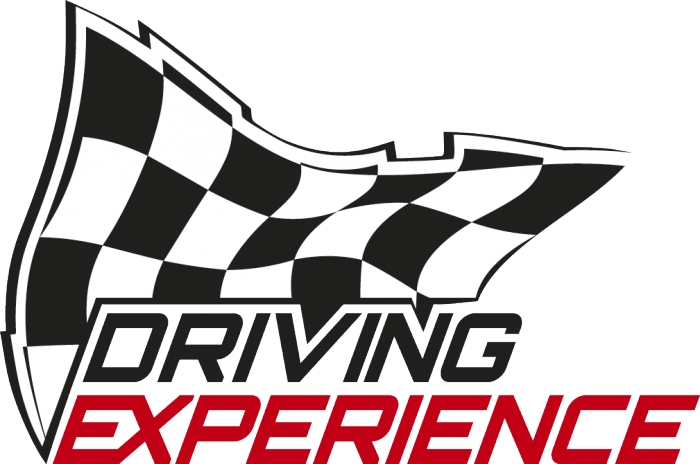
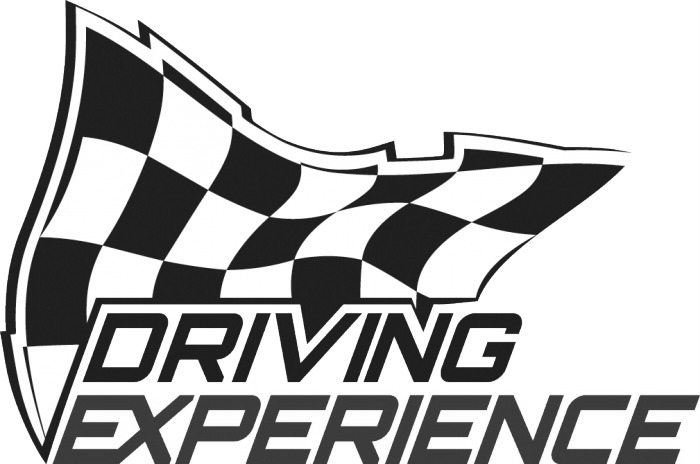
header perfected

Changed region(s): [[0.06, 0.8448, 1.0, 1.0]]

diff --git a/src/App.js b/src/App.js
@@ -11,14 +11,13 @@ import Forum from "./Forum";
 import Body from "./Body";
 import Quiz from "./Quiz";
 import patronate from "./img/drivingexperience.jpg";
-import { library } from '@fortawesome/fontawesome-svg-core';
-import { FontAwesomeIcon } from '@fortawesome/react-fontawesome';
-import { faIgloo, faThumbsUp, faShareAlt } from '@fortawesome/free-solid-svg-icons';
+import {library} from '@fortawesome/fontawesome-svg-core';
+import {FontAwesomeIcon} from '@fortawesome/react-fontawesome';
+import {faThumbsUp, faShareAlt} from '@fortawesome/free-solid-svg-icons';
 
-library.add(faIgloo, faThumbsUp, faShareAlt);
+library.add(faThumbsUp, faShareAlt);
 
 class Header extends Component {
-
 
 
     render() {
@@ -26,8 +25,8 @@ class Header extends Component {
             <Router>
                 <div>
                     <div className="headerBlack">
-                        <span className="roundCircle">DRV</span>
-                        <div className="patron">Patronat: <img className="patronate" src={patronate}/></div>
+                        <span className="logo">DRV</span>
+                        <img className="patronate" src={patronate} alt="patronate"/>
                         <div className="userHeader">
                             <span>user</span>
                             <div><span>points</span> | <a href="#">wyloguj</a></div>
@@ -35,13 +34,13 @@ class Header extends Component {
                     </div>
                     <div className="headerChoice">
                         <Link to="/">
-                            <button className="tab">PORADY</button>
+                            <button className="tab"><span className="tabText">PORADY</span></button>
                         </Link>
                         <Link to="/forum">
                             <button className="tab">FORUM</button>
                         </Link>
                         <Link to="/quiz">
-                        <button className="tab">QUIZ</button>
+                            <button className="tab">QUIZ</button>
                         </Link>
                     </div>
                 </div>

diff --git a/src/App.scss b/src/App.scss
@@ -2,6 +2,7 @@
   box-sizing: border-box;
   padding: 0;
   margin: 0;
+  font-family: 'Rajdhani', sans-serif;
 }
 
 .mainComponent {
@@ -11,74 +12,89 @@
 
 .headerBlack {
   height: 55px;
-  background-color: black;
+  background-color: white;
   display: flex;
   justify-content: space-between;
 }
 
 .headerChoice {
   height: 30px;
-  background-color: darkgrey;
-}
-
-.roundCircle {
-  height: 30px;
-  width: 30px;
-  border-radius: 50%;
-  background-color: darkgrey;
-  position: relative;
-  left: 2vw;
-  top: 0.75vh;
-  font-size: 0.7rem;
-  display: flex;
-  align-items: center;
-}
-
-.patron {
-  height: 60%;
-  width: 30%;
   background-color: white;
-  align-self: center;
-  justify-self: center;
-  font-size: 0.6rem;
 }
 
 .patronate {
-  width: 60%;
-  height: 95%;
+  width: 20%;
+  height: 65%;
+  align-self: center;
+  justify-self: center;
+  position: relative;
+  left: 6%;
 }
 
 .userHeader {
   display: flex;
   flex-direction: column;
-  color: white;
+  justify-content: center;
+  color: black;
+  position: relative;
+  right: 2.5%;
+  font-size: 0.95rem;
+}
+
+.userHeader span:first-child {
+  align-self: center;
+}
+
+.userHeader a {
+  color: black;
+}
+
+.logo {
+  font-family: 'Righteous', cursive;
+  font-size: 1.8rem;
+  position: relative;
+  left: 4%;
+  align-self: center;
 }
 
 .tab {
   float: left;
   width: 33.3%;
-  border: 1px solid black;
+  border-top: 0.5px solid black;
+  border-bottom: 0.5px solid black;
+  border-left: none;
+  border-right: none;
   height: 100%;
   display: flex;
   align-items: center;
   justify-content: center;
+  font-weight: 600;
+  background-color: white;
 }
+
+
 
 .weekly {
   width: 100%;
+  height: 30px;
   display: flex;
   padding-top: 10px;
+  justify-content: space-around;
 }
 
 .weekly span:first-child {
   position: relative;
-  left: 37%;
+  font-weight: 600;
+  left: 20%;
+  bottom: 35%;
+  font-size: 1.3rem;
 }
 
 .weekly span:last-child {
   position: relative;
-  left: 60%;
- }
+  right: -9%;
+  bottom: 15%;
+}
 
 .weeklyBody {
   background-color: darkgrey;

diff --git a/src/Body.js b/src/Body.js
@@ -7,12 +7,17 @@ import moviePoster from "./img/carcrash.jpeg";
 import { FontAwesomeIcon } from '@fortawesome/react-fontawesome';
 
 class Body extends Component {
+
     render() {
+
+        const actualDate = new Date();
+
         return (
             <div>
                 <div className="weekly">
                     <span>Porada tygodnia</span>
-                    <span>date</span>
+                    <span>{actualDate.toLocaleDateString()}</span>
+
                 </div>
                 <div className="weeklyBody">
                     <span>Bezpieczne hamowanie silnikiem</span>

diff --git a/public/index.html b/public/index.html
@@ -23,6 +23,8 @@
       Learn how to configure a non-root public URL by running `npm run build`.
     -->
     <title>React App</title>
+    <link href="https://fonts.googleapis.com/css?family=Righteous" rel="stylesheet">
+    <link href="https://fonts.googleapis.com/css?family=Rajdhani:400,700&amp;subset=latin-ext" rel="stylesheet">
   </head>
   <body>
     <noscript>You need to enable JavaScript to run this app.</noscript>
